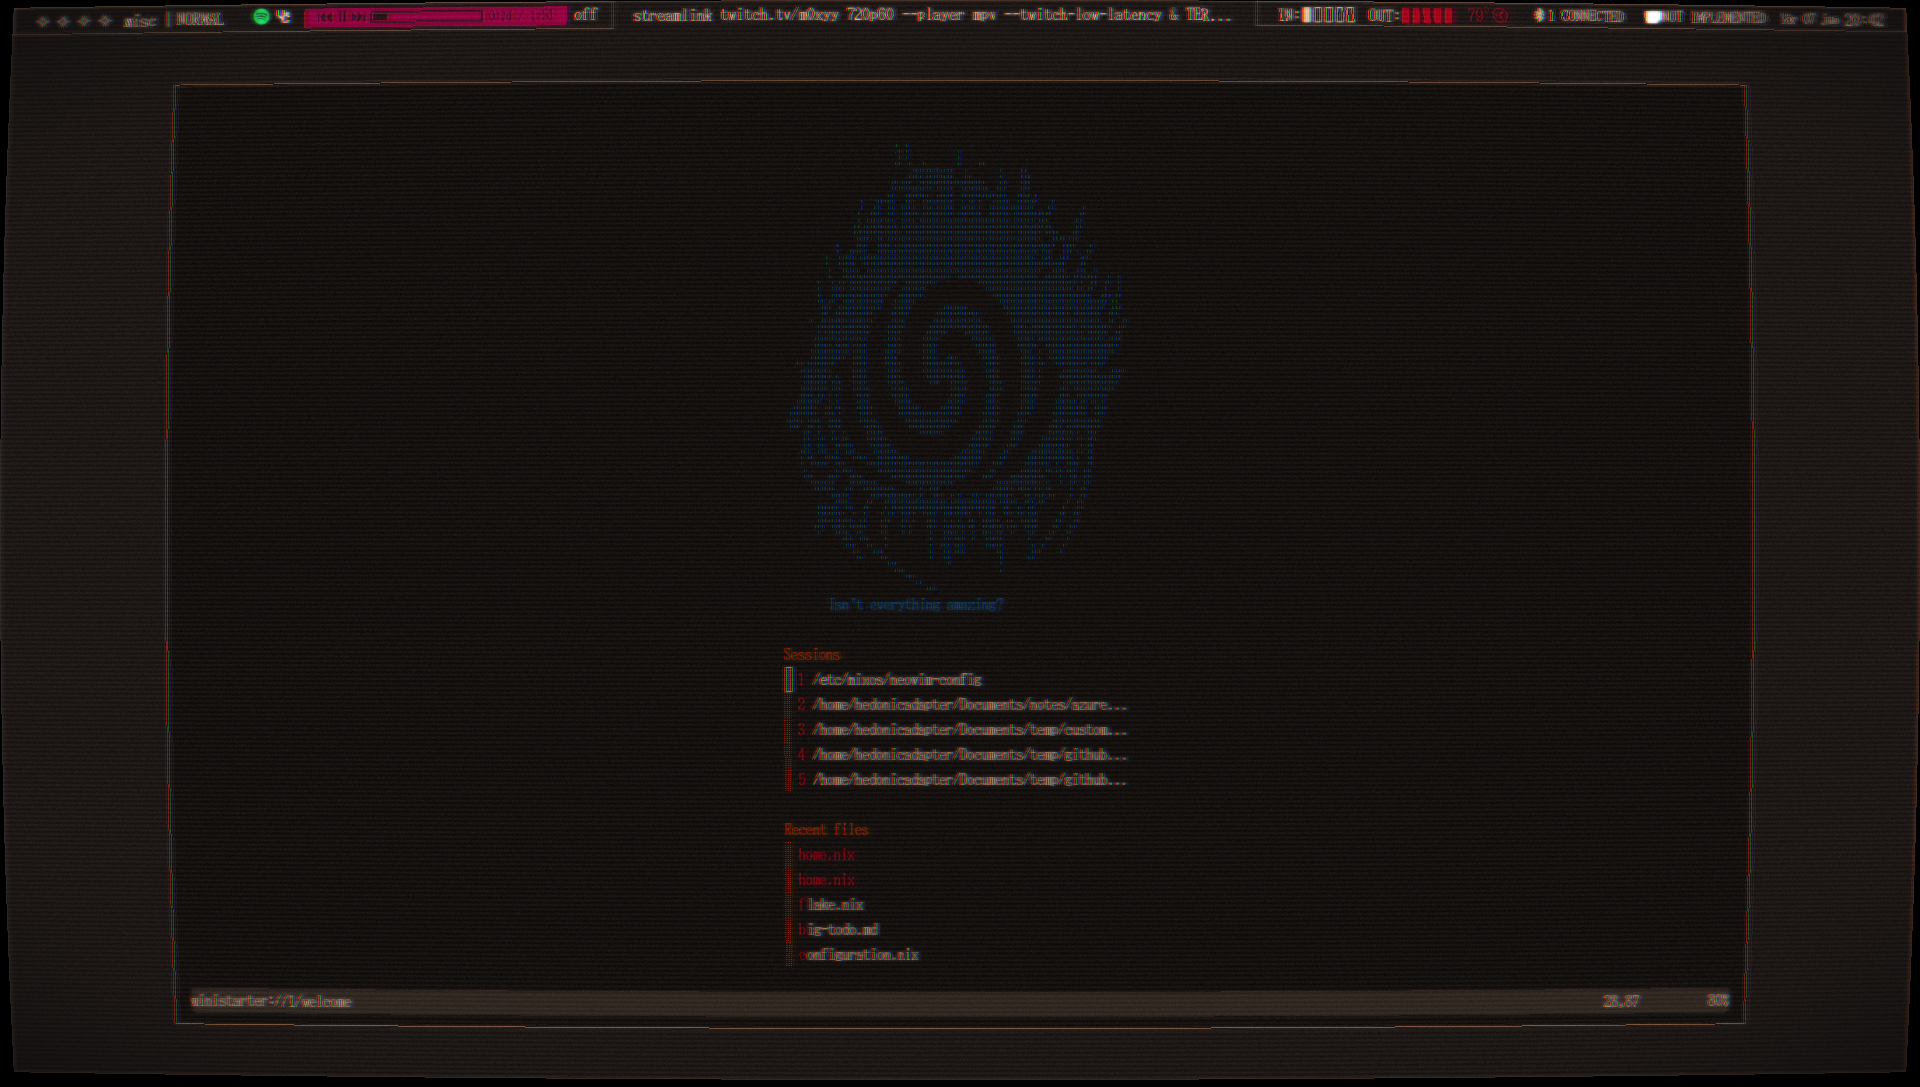
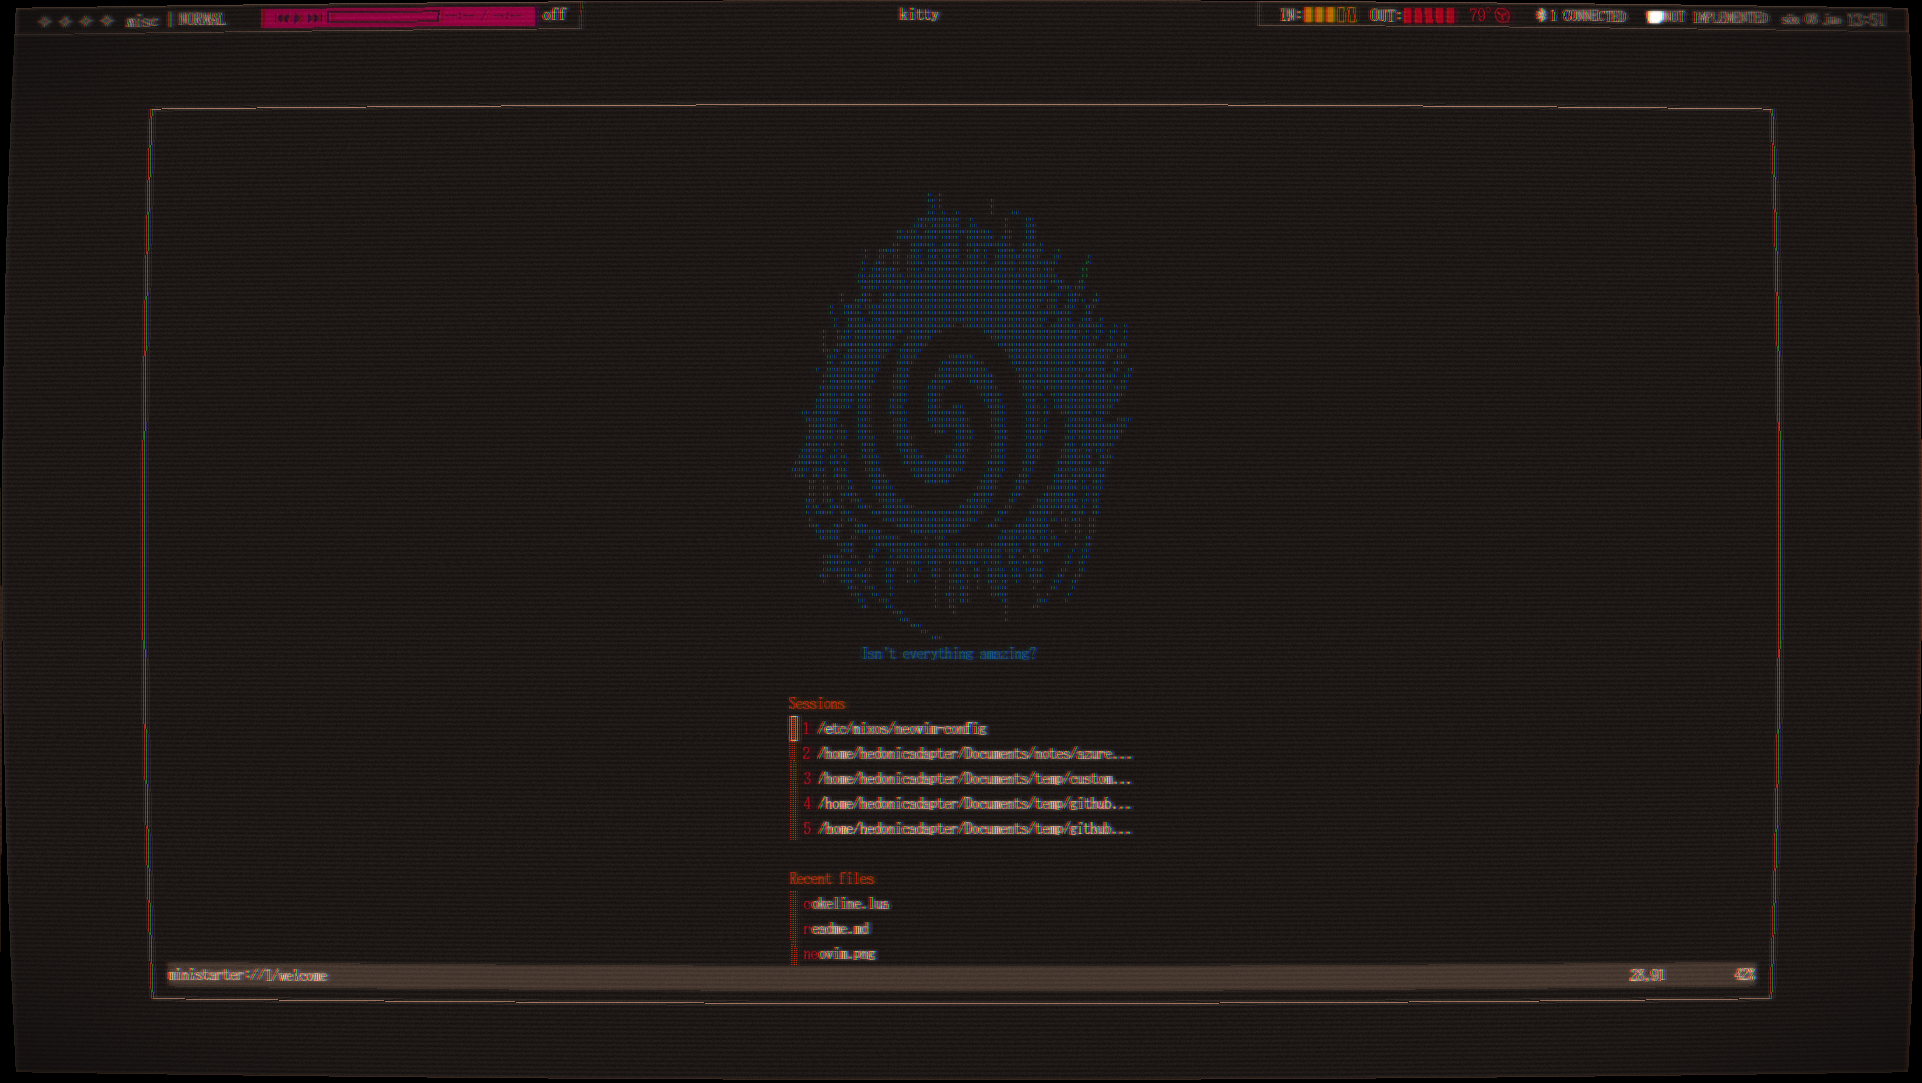
preview images

diff --git a/readme.md b/readme.md
@@ -1,7 +1,13 @@
 ## Preview
-[![splash](./images/splash.png)](URL)
+[![neovim dashboard](./images/neovim-dash.png)](URL)
 
 [![neovim](./images/neovim.png)](URL)
+
+[![css injectable apps](./images/js-apps.png)](URL)
+
+[![firefox based browsers](./images/browsers.png)](URL)
+
+[![AGS shell widgets](./images/audio-panel.png)](URL)
 
 Goals:
 1. Experimentation
@@ -19,7 +25,7 @@ Goals:
 + Speed read selection with keybind
 
 ### Aesthetics
-Anti-minimalist without being cluttered
+Retro and anti-minimalist without being cluttered
 - Global Base-16 colors injected into shells, neovim, and electron apps
 + ~~Transparent, blurry, and grainy~~ retro everything, get used to it or disable it
 + Extremely minimal space saving firefox theme forked from Firefox Alpha
@@ -34,6 +40,7 @@ Anti-minimalist without being cluttered
 - [ ] System-wide font selection
 - [ ] Hyprland workspace session manager(?)
 - [ ] Change light/dark mode depending on time of day
+- [ ] Moar kaomojis!! <(˶˃⤙˂˶)> 
 
 ## Credits
  - (https://github.com/hyprwm/Hyprland/issues/1140#issuecomment-1335128437)[Blue light shaders from MahouShoujoMivutilde]
